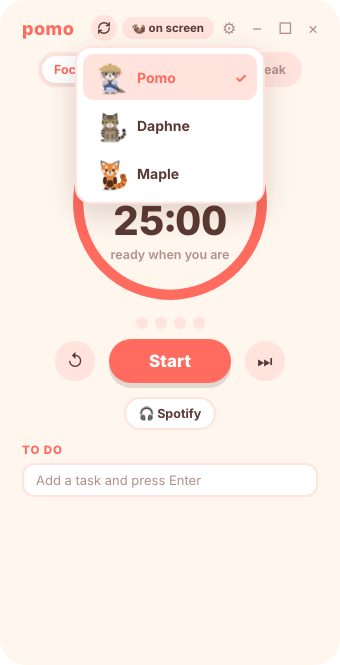
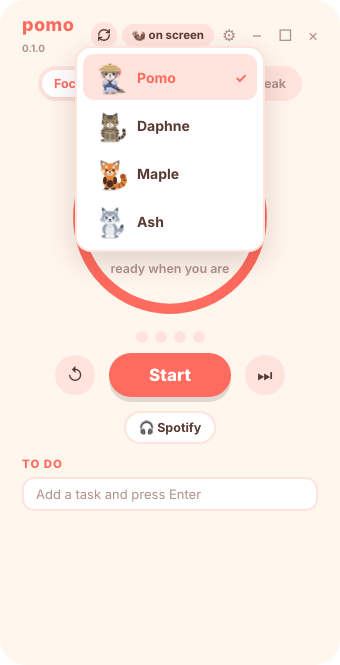
Add Ash the wolf pup
A fourth character: an original fluffy grey wolf pup who howls, pounces
and curls up asleep during focus time.

Claude-Session: https://claude.ai/code/session_0114FZTTLybihT3puTV1ZPsu

diff --git a/src/characters/wolf.css b/src/characters/wolf.css
@@ -1,0 +1,101 @@
+/* Ash the wolf pup's moves. A pose class sits on the wrapper around the SVG:
+   .walking .dancing .sitting .jumping .held, plus .howling and .pouncing */
+.w-all { transform-origin: 50% 100%; }
+.w-body { transform-origin: 50% 100%; animation: w-breathe 3s ease-in-out infinite; }
+.w-head { transform-origin: 50% 92%; }
+.w-eyes { transform-origin: 50% 50%; animation: w-blink 4.6s infinite; }
+.w-tail { transform-origin: 0% 100%; animation: w-wag 1.4s ease-in-out infinite; }
+.w-ear-l { transform-origin: 70% 100%; animation: w-twitch 7s infinite; }
+.w-leg { transform-origin: 50% 0%; }
+.w-tongue, .w-zz, .w-awoo { opacity: 0; }
+
+@keyframes w-breathe { 0%, 100% { transform: scale(1, 1); } 50% { transform: scale(1.02, .975); } }
+@keyframes w-blink { 0%, 46%, 50%, 100% { transform: scaleY(1); } 48% { transform: scaleY(.1); } }
+@keyframes w-wag { 0%, 100% { transform: rotate(8deg); } 50% { transform: rotate(-12deg); } }
+@keyframes w-twitch { 0%, 90%, 94%, 100% { transform: rotate(0); } 92% { transform: rotate(-12deg); } }
+
+/* walking: a bouncy trot */
+.walking .w-all { animation: w-trot .36s ease-in-out infinite; }
+.walking .w-leg-l { animation: w-pad .36s ease-in-out infinite; }
+.walking .w-leg-r { animation: w-pad .36s ease-in-out infinite -.18s; }
+.walking .w-foot-l { animation: w-pad-small .36s ease-in-out infinite -.18s; }
+.walking .w-foot-r { animation: w-pad-small .36s ease-in-out infinite; }
+.walking .w-tail { animation: w-wag .5s ease-in-out infinite; }
+@keyframes w-trot { 0%, 100% { transform: rotate(-3deg) translateY(0); } 50% { transform: rotate(3deg) translateY(-3px); } }
+@keyframes w-pad { 0%, 100% { transform: translateY(0); } 50% { transform: translateY(-6px); } }
+@keyframes w-pad-small { 0%, 100% { transform: translateY(0); } 50% { transform: translateY(-3px); } }
+
+/* dancing: paws up, tongue out */
+.dancing .w-all { animation: w-groove .9s ease-in-out infinite; }
+.dancing .w-leg-l { animation: w-paw-up-l .45s ease-in-out infinite alternate; }
+.dancing .w-leg-r { animation: w-paw-up-r .45s ease-in-out infinite alternate-reverse; }
+.dancing .w-head { animation: w-bop .45s ease-in-out infinite alternate; }
+.dancing .w-tail { animation: w-wag .3s ease-in-out infinite; }
+.dancing .w-tongue, .jumping .w-tongue, .pouncing .w-tongue { opacity: 1; }
+@keyframes w-groove {
+  0%, 100% { transform: rotate(-7deg) translateY(0); }
+  25% { transform: rotate(0deg) translateY(-6px); }
+  50% { transform: rotate(7deg) translateY(0); }
+  75% { transform: rotate(0deg) translateY(-6px); }
+}
+@keyframes w-paw-up-l { from { transform: translate(-6px, -4px) rotate(25deg); } to { transform: translate(-16px, -26px) rotate(60deg); } }
+@keyframes w-paw-up-r { from { transform: translate(6px, -4px) rotate(-25deg); } to { transform: translate(16px, -26px) rotate(-60deg); } }
+@keyframes w-bop { from { transform: rotate(-6deg); } to { transform: rotate(6deg); } }
+
+/* sitting: curled up asleep through focus time */
+.sitting .w-all { transform: translateY(8px) scale(1.08, .9); }
+.sitting .w-leg { transform: translateY(-10px) scaleY(.45); }
+.sitting .w-body { animation: w-breathe-deep 4.5s ease-in-out infinite; }
+.sitting .w-head { transform: translateY(8px) rotate(-5deg); }
+.sitting .w-eyes { animation: none; transform: scaleY(.1); }
+.sitting .w-ear-l { animation-duration: 10s; }
+.sitting .w-tail { animation: none; transform: rotate(20deg) translateY(4px); }
+.sitting .w-zz { animation: w-zz 3s ease-in-out infinite; }
+@keyframes w-breathe-deep { 0%, 100% { transform: scale(1, 1); } 50% { transform: scale(1.035, .96); } }
+@keyframes w-zz { 0% { opacity: 0; transform: translate(-4px, 10px); } 40% { opacity: 1; } 100% { opacity: 0; transform: translate(6px, -8px); } }
+
+/* howling: head back, a long awoo */
+.howling .w-head { animation: w-howl 2.2s ease-in-out both; }
+.howling .w-all { animation: w-howl-body 2.2s ease-in-out both; }
+.howling .w-eyes { animation: none; transform: scaleY(.1); }
+.howling .w-mouth { d: path("M66.500 76 Q70 86 73.500 76 Q70 73.500 66.500 76 Z"); fill: #2a2d38; }
+.howling .w-awoo { animation: w-awoo 2.2s ease-out both; }
+.howling .w-tail { animation: w-wag .6s ease-in-out infinite; }
+@keyframes w-howl { 0%, 100% { transform: rotate(0) translateY(0); } 22%, 80% { transform: rotate(-24deg) translateY(-3px); } }
+@keyframes w-howl-body { 0%, 100% { transform: scale(1, 1); } 22%, 80% { transform: scale(.97, 1.05); } }
+@keyframes w-awoo { 0%, 22% { opacity: 0; transform: translate(-6px, 8px) scale(.6); } 40%, 70% { opacity: 1; transform: translate(0, 0) scale(1); } 90%, 100% { opacity: 0; transform: translate(6px, -8px) scale(1.1); } }
+
+/* pouncing: wiggle down low, then spring */
+.pouncing .w-all { animation: w-pounce 1.5s ease-in-out both; }
+.pouncing .w-tail { animation: w-wag .22s ease-in-out infinite; }
+.pouncing .w-eyes { animation: none; transform: scale(1.12); }
+.pouncing .w-leg-l { animation: w-pounce-paws 1.5s ease-in-out both; }
+.pouncing .w-leg-r { animation: w-pounce-paws 1.5s ease-in-out both; }
+@keyframes w-pounce {
+  0%, 100% { transform: translate(0, 0) scale(1, 1); }
+  15%, 45% { transform: translate(-3px, 0) scale(1.12, .84); }
+  30% { transform: translate(3px, 0) scale(1.12, .84); }
+  62% { transform: translate(6px, -28px) scale(.95, 1.08); }
+  80% { transform: translate(4px, 0) scale(1.08, .92); }
+}
+@keyframes w-pounce-paws { 0%, 50%, 80%, 100% { transform: translateY(0); } 62% { transform: translate(6px, -8px) rotate(-30deg); } }
+
+/* jumping: celebrating */
+.jumping .w-all { animation: w-jump .5s cubic-bezier(.3, 0, .5, 1) infinite alternate; }
+.jumping .w-leg-l { transform: translate(-14px, -22px) rotate(55deg); }
+.jumping .w-leg-r { transform: translate(14px, -22px) rotate(-55deg); }
+.jumping .w-tail { animation: w-wag .25s ease-in-out infinite; }
+.jumping .w-shadow { transform-origin: 50% 50%; animation: w-shadow .5s ease-in-out infinite alternate; }
+@keyframes w-jump { from { transform: translateY(0) scale(1.05, .94); } to { transform: translateY(-32px) scale(.97, 1.04); } }
+@keyframes w-shadow { from { transform: scale(1); } to { transform: scale(.6); opacity: .5; } }
+
+/* held: scooped up, paws dangling */
+.held .w-shadow { opacity: 0; }
+.held .w-all { transform: scale(.94, 1.08); }
+.held .w-leg-l { animation: w-dangle .25s ease-in-out infinite alternate; }
+.held .w-leg-r { animation: w-dangle .25s ease-in-out infinite alternate-reverse; }
+.held .w-foot-l { animation: w-pad-small .25s ease-in-out infinite; }
+.held .w-foot-r { animation: w-pad-small .25s ease-in-out infinite -.12s; }
+.held .w-eyes { animation: none; transform: scale(1.18); }
+.held .w-tail { animation: w-wag .3s ease-in-out infinite; }
+@keyframes w-dangle { from { transform: translateY(2px) rotate(-6deg); } to { transform: translateY(8px) rotate(6deg); } }

diff --git a/src/characters/wolf.js b/src/characters/wolf.js
@@ -1,0 +1,75 @@
+// Ash the fluffy grey wolf pup.
+window.CHARACTERS = window.CHARACTERS || {};
+window.CHARACTERS.wolf = {
+  name: 'Ash',
+  emoji: '🐺',
+  idleActions: [{ pose: 'howling', ms: 2200 }, { pose: 'pouncing', ms: 1500 }],
+  breakActions: [{ pose: 'howling', ms: 2200 }, { pose: 'pouncing', ms: 1500 }],
+  lines: {
+    focus: 'Focus time. I will curl up right here',
+    break: 'Break time! Awoo!',
+    focusDone: 'You did it!! Awoooo',
+    breakDone: 'Okay! Back on the trail',
+    taskDone: ['Awoo!', 'One down!', 'Good hunt!', 'Nice one!'],
+    allDone: 'All done!! Awooooo!',
+    dropped: 'yip!',
+    pokes: [
+      'awoo?',
+      'you are doing great',
+      'belly rubs after this round?',
+      'wag wag wag',
+      'I believe in you',
+      'boop!',
+      'the pack is proud of you',
+      'one paw at a time',
+    ],
+  },
+  svg: `
+<svg class="char-svg" viewBox="0 0 140 150" xmlns="http://www.w3.org/2000/svg" aria-hidden="true">
+  <ellipse class="w-shadow" cx="70" cy="144" rx="36" ry="5" fill="rgba(50,35,35,.18)"/>
+  <g class="w-all">
+    <g class="w-tail">
+      <path d="M92 130 C112 134 132 122 128 98 C127 92 121 90 118 95 C113 104 106 112 92 114 Z" fill="#9aa3b5"/>
+      <path d="M128 98 C127 92 121 90 118 95 C116 99 115 102 113 105 C119 108 125 106 128 98 Z" fill="#4b5263"/>
+      <path d="M94 128 C104 130 112 127 118 121 C110 122 102 121 94 118 Z" fill="#e9ebf0"/>
+    </g>
+    <ellipse class="w-foot w-foot-l" cx="45" cy="139" rx="10" ry="5.5" fill="#8790a3"/>
+    <ellipse class="w-foot w-foot-r" cx="95" cy="139" rx="10" ry="5.5" fill="#8790a3"/>
+    <g class="w-body">
+      <ellipse cx="70" cy="110" rx="32" ry="30" fill="#9aa3b5"/>
+      <path d="M70 86 C84 88 90 102 88 118 C86 132 78 138 70 138 C62 138 54 132 52 118 C50 102 56 88 70 86 Z" fill="#e9ebf0"/>
+      <path d="M61 96 l5 5 l4 -5 l4 5 l5 -5" fill="none" stroke="#b9c0cf" stroke-width="2.2" stroke-linecap="round" stroke-linejoin="round"/>
+    </g>
+    <g class="w-leg w-leg-l"><rect x="54" y="108" width="13" height="30" rx="6.5" fill="#e9ebf0"/><ellipse cx="60.500" cy="139" rx="9.500" ry="5.500" fill="#f4f5f8"/></g>
+    <g class="w-leg w-leg-r"><rect x="73" y="108" width="13" height="30" rx="6.5" fill="#e9ebf0"/><ellipse cx="79.500" cy="139" rx="9.500" ry="5.500" fill="#f4f5f8"/></g>
+    <g class="w-head">
+      <g class="w-ear w-ear-l"><path d="M38 50 L38 20 L62 38 Z" fill="#9aa3b5"/><path d="M38.500 32 L38 20 L48 27.500 Z" fill="#4b5263" stroke="#4b5263" stroke-width="2.5" stroke-linejoin="round"/><path d="M43 45 L43 31 L55 40 Z" fill="#e9ebf0"/></g>
+      <g class="w-ear w-ear-r"><path d="M102 50 L102 20 L78 38 Z" fill="#9aa3b5"/><path d="M101.500 32 L102 20 L92 27.500 Z" fill="#4b5263" stroke="#4b5263" stroke-width="2.5" stroke-linejoin="round"/><path d="M97 45 L97 31 L85 40 Z" fill="#e9ebf0"/></g>
+      <path d="M34 62 L26 70 L35 70 L30 79 L41 76 Z M106 62 L114 70 L105 70 L110 79 L99 76 Z" fill="#9aa3b5"/>
+      <ellipse cx="70" cy="62" rx="35" ry="28" fill="#9aa3b5"/>
+      <path d="M70 50 C80 50 96 58 98 70 C99 82 86 90 70 90 C54 90 41 82 42 70 C44 58 60 50 70 50 Z" fill="#e9ebf0"/>
+      <path d="M70 34 C76 40 78 48 76 56 L64 56 C62 48 64 40 70 34 Z" fill="#9aa3b5"/>
+      <ellipse cx="56" cy="50" rx="4" ry="3" fill="#e9ebf0"/>
+      <ellipse cx="84" cy="50" rx="4" ry="3" fill="#e9ebf0"/>
+      <ellipse cx="46" cy="72" rx="6.500" ry="4.200" fill="#aeb4c4"/>
+      <ellipse cx="94" cy="72" rx="6.500" ry="4.200" fill="#aeb4c4"/>
+      <g class="w-eyes">
+        <ellipse cx="56" cy="62" rx="4.400" ry="5.800" fill="#2a2d38"/><circle cx="57.500" cy="59.800" r="1.600" fill="#fff"/>
+        <ellipse cx="84" cy="62" rx="4.400" ry="5.800" fill="#2a2d38"/><circle cx="85.500" cy="59.800" r="1.600" fill="#fff"/>
+      </g>
+      <g class="w-snout">
+        <ellipse cx="70" cy="70" rx="5.200" ry="3.800" fill="#2a2d38"/>
+        <path class="w-mouth" d="M63.500 77 Q67 81 70 76.500 Q73 81 76.500 77" fill="none" stroke="#2a2d38" stroke-width="1.900" stroke-linecap="round"/>
+        <path class="w-tongue" d="M67 79 Q70 88 73 79 Z" fill="#f08a9b"/>
+      </g>
+    </g>
+    <g class="w-zz" fill="#7b7fe8" font-family="Nunito, 'Segoe UI', sans-serif" font-weight="800">
+      <text x="106" y="36" font-size="13">z</text>
+      <text x="116" y="24" font-size="17">z</text>
+    </g>
+    <g class="w-awoo" fill="none" stroke="#7b7fe8" stroke-width="2.6" stroke-linecap="round">
+      <path d="M104 30 q6 -5 12 0"/><path d="M108 20 q9 -8 18 0"/>
+    </g>
+  </g>
+</svg>`,
+};

diff --git a/src/pet/pet.html b/src/pet/pet.html
@@ -6,6 +6,7 @@
 <link rel="stylesheet" href="../characters/otter.css">
 <link rel="stylesheet" href="../characters/cat.css">
 <link rel="stylesheet" href="../characters/panda.css">
+<link rel="stylesheet" href="../characters/wolf.css">
 <link rel="stylesheet" href="pet.css">
 <style>
   html, body { margin: 0; height: 100%; overflow: hidden; background: transparent; user-select: none; }
@@ -17,6 +18,7 @@
   <script src="../characters/otter.js"></script>
   <script src="../characters/cat.js"></script>
   <script src="../characters/panda.js"></script>
+  <script src="../characters/wolf.js"></script>
   <script src="pet.js"></script>
 </body>
 </html>

diff --git a/src/timer/index.html b/src/timer/index.html
@@ -7,6 +7,7 @@
 <link rel="stylesheet" href="../characters/otter.css">
 <link rel="stylesheet" href="../characters/cat.css">
 <link rel="stylesheet" href="../characters/panda.css">
+<link rel="stylesheet" href="../characters/wolf.css">
 <link rel="stylesheet" href="../pet/pet.css">
 <link rel="stylesheet" href="timer.css">
 </head>
@@ -98,6 +99,7 @@
 <script src="../characters/otter.js"></script>
 <script src="../characters/cat.js"></script>
 <script src="../characters/panda.js"></script>
+<script src="../characters/wolf.js"></script>
 <script src="timer.js"></script>
 <script src="../pet/pet.js"></script>
 </body>

diff --git a/README.md b/README.md
@@ -6,6 +6,7 @@ A cute pomodoro timer for Windows and Mac. A little animated buddy keeps you com
 <p><img src="docs/pomo-moves.png" width="640" alt="Pomo the otter's moves"></p>
 <p><img src="docs/daphne-moves.png" width="640" alt="Daphne the cat's moves"></p>
 <p><img src="docs/maple-moves.png" width="640" alt="Maple the red panda's moves"></p>
+<p><img src="docs/ash-moves.png" width="640" alt="Ash the wolf pup's moves"></p>
 
 ## Contents
 
@@ -74,6 +75,7 @@ Two buttons at the top of the window control the character:
   - 🦦 **Pomo**, a samurai otter. Practices sword moves, bows, and meditates while you focus.
   - 🐱 **Daphne**, a happy tabby cat. Bats at things, washes a paw, stretches, and naps in a loaf while you focus.
   - 🍁 **Maple**, a red panda. Does the famous arms-up "I'm very scary" pose, wiggles, and curls up asleep while you focus.
+  - 🐺 **Ash**, a fluffy grey wolf pup. Throws his head back and howls, wiggles down and pounces, and curls up asleep while you focus.
 - **The pill next to it chooses where they live.** Click to cycle:
   - **on screen**: walks along the bottom of your screen, on top of your other windows. Your clicks pass straight through to whatever is underneath.
   - **in window**: stays inside the timer window on a little floor.
